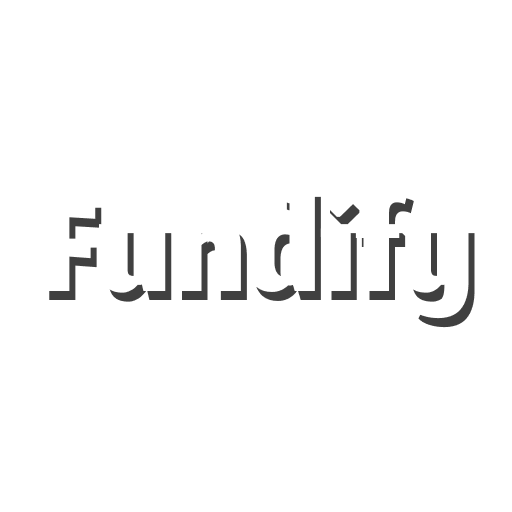
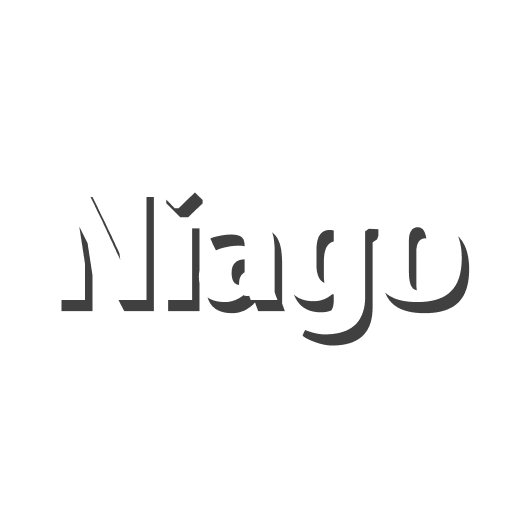
fix:fix something

Changed region(s): [[0.2188, 0.375, 0.9375, 0.6875], [0.0938, 0.375, 0.2188, 0.625]]

diff --git a/app/invest/confirm/page.tsx b/app/invest/confirm/page.tsx
@@ -167,22 +167,21 @@ function InvestConfirm() {
                 </AlertDialogTrigger>
                 <AlertDialogContent>
                   <AlertDialogHeader>
-                    <AlertDialogTitle>
-                      Konfirmasi Investasi
-                    </AlertDialogTitle>
+                    <AlertDialogTitle>Konfirmasi Investasi</AlertDialogTitle>
                     <AlertDialogDescription>
-                      Apakah Anda yakin ingin melakukan investasi?
-                      Investasi Anda tidak dapat diubah setelah dikonfirmasi.
+                      Apakah Anda yakin ingin melakukan investasi? Investasi
+                      Anda tidak dapat diubah setelah dikonfirmasi.
                     </AlertDialogDescription>
                   </AlertDialogHeader>
                   <AlertDialogFooter>
-                    <AlertDialogCancel>Batal</AlertDialogCancel>
+                    <AlertDialogCancel>Cancel</AlertDialogCancel>
                     <AlertDialogAction
-                    className="bg-orange-600"
+                      className="bg-orange-500"
                       onClick={() => {
                         toast({
                           title: "Sukses!",
                           description: "Pengajuan investasi berhasil dikirim.",
+                          className: "border border-2 border-orange-300 text-orange-600 font-bold shadow-lg",
                         });
                       }}
                     >

diff --git a/app/tentang-kami/page.tsx b/app/tentang-kami/page.tsx
@@ -88,8 +88,8 @@ function TentangKami() {
               Join Us!
             </h1>
 
-            <p className="mt-10 mx-10 text-white font-semibold text-xl sm:text-2xl md:text-3xl">
-              FundiFY merupakan platform yang memberikan kemudahan untuk menampung
+            <p className="mt-10 mx-10 text-white font-semibold text-lg sm:text-xl md:text-2xl">
+              Niago merupakan platform yang memberikan kemudahan untuk menampung
               investasi dan pengembangan UKM. Kami menyediakan berbagai layanan untuk memudahkan
               pengelolaan investasi bagi investor dan pendanaan UKM!
             </p>

diff --git a/app/page.tsx b/app/page.tsx
@@ -90,7 +90,7 @@ function Home() {
 
             <p className="mt-10 text-white font-semibold text-xl sm:text-2xl md:text-3xl">
               Wadah investasi terpercaya sekaligus pengembangan potensi bisnismu
-              dengan menjadi bagian dari FundiFY
+              dengan menjadi bagian dari Niago
             </p>
 
             <Link href="/register">

diff --git a/app/layout.tsx b/app/layout.tsx
@@ -9,8 +9,8 @@ const poppinsRegular = localFont({
 
 
 export const metadata = {
-  title: "FundiFY",
-  description: "FundiFY - Aplikasin",
+  title: "Niago - Platform untuk investasi UKM",
+  description: "Niago - Platform untuk investasi UKM",
 };
 
 export default function RootLayout({
